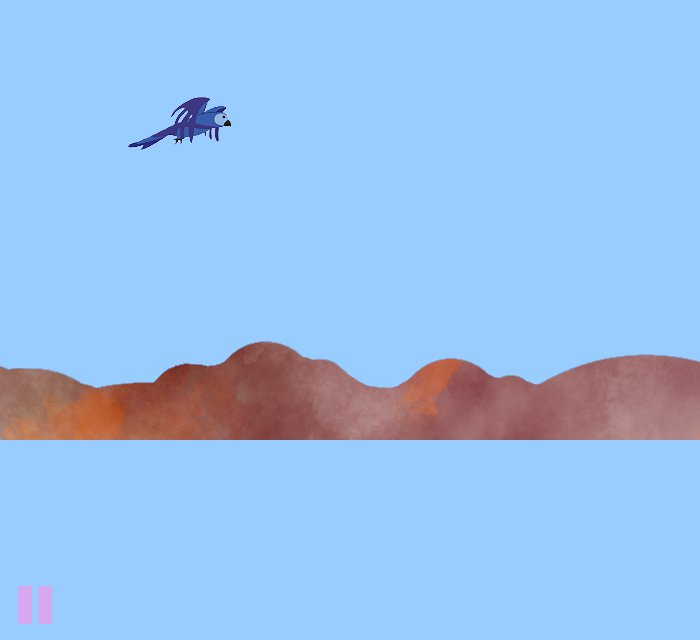
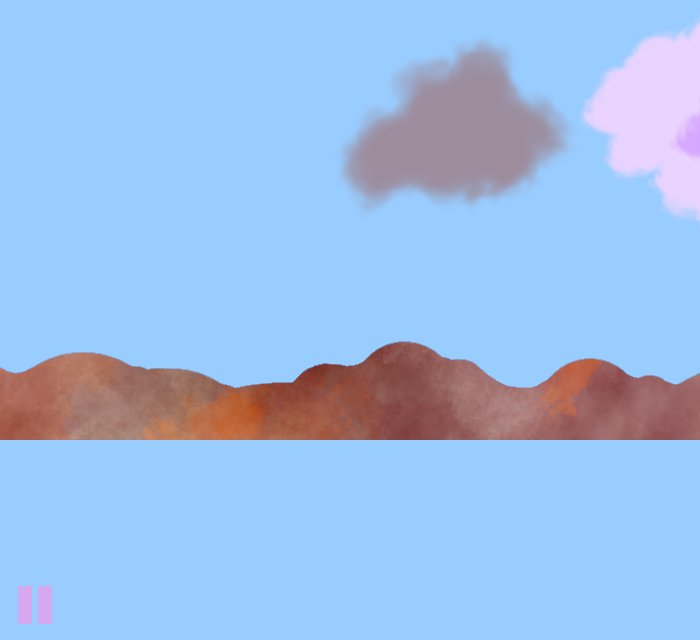
Add files via upload
21.13
все хорошо

Changed region(s): [[0.0, 0.5312, 1.0, 0.6875], [0.48, 0.0312, 1.0, 0.3438], [0.18, 0.125, 0.33, 0.25]]

diff --git a/888.py b/888.py
@@ -1,0 +1,285 @@
+import os
+import sys
+import pygame
+import random
+
+
+WIDTH = 700
+HEIGHT = 700
+
+
+def load_screen_im(name, colorkey=None):
+    fullname = os.path.join('data', name)
+    if not os.path.isfile(fullname):
+        print(f"Файл с изображением '{fullname}' не найден")
+        sys.exit()
+    image = pygame.image.load(fullname)
+    if colorkey is not None:
+        image = image.convert()
+        if colorkey == -1:
+            colorkey = image.get_at((0, 0))
+        image.set_colorkey(colorkey)
+    else:
+        image = image.convert_alpha()
+    return image
+
+
+def music_play(name):
+    fullname = os.path.join('data', name)
+    if not os.path.isfile(fullname):
+        print(f"Звуковой файл '{fullname}' не найден")
+        sys.exit()
+    pygame.mixer.music.load(fullname)
+    pygame.mixer.music.play(-1)
+
+
+class App:
+    def __init__(self):
+        pygame.init()
+        self.screen = pygame.display.set_mode((WIDTH, HEIGHT))
+        pygame.display.set_caption('DESERT Adventure')
+        self.all_sprites = pygame.sprite.Group()
+        self.dragon = AnimatedSprite(self, load_screen_im("birds5.png"), 8, 3, 700, 260)
+        self.fps = 200
+        self.clock = pygame.time.Clock()
+        self.length = 0
+        self.mus = music_play('music.mp3')
+
+    def terminate(self):
+        pygame.quit()
+        sys.exit()
+
+    def game(self):
+        dog_surf = load_screen_im('pause.png')
+        dog_rect = dog_surf.get_rect(bottomright=(60, 690))
+        picture = Picture()
+        weather = Weather()
+        pause = False
+        run = True
+        while run:
+            for event in pygame.event.get():
+                if event.type == pygame.QUIT:
+                    self.terminate()
+                if event.type == pygame.MOUSEBUTTONUP:
+                    x, y = event.pos
+                    if (x in range(10, 60)) and (y in range(640, 690)):
+                        print('Пауза')
+                        if not pause:
+                            pause = True
+                            dog_surf = load_screen_im('play.png', -1)
+                            rect = pygame.Rect(0, 60, 700, 640)
+                            sub = self.screen.subsurface(rect)
+                            pygame.image.save(sub, 'data/screenshot.jpg')
+                            pause_screen = load_screen_im('screenshot.jpg')
+                            pause_rect = pause_screen.get_rect(topleft=(0, 60))
+                            self.screen.blit(pause_screen, pause_rect)
+                            pygame.mixer.music.pause()
+
+                        else:
+                            pause = False
+                            dog_surf = load_screen_im('pause.png', -1)
+                            pygame.mixer.music.unpause()
+
+            self.screen.fill('#99CCFF')
+            self.all_sprites.draw(self.screen)
+
+            if not pause:
+                self.length += 0.06
+
+                self.all_sprites.update()
+
+                font = pygame.font.Font(None, 50)
+                string_rendered = font.render(str(int(self.length)) + 'м', True, pygame.Color('white'))
+                intro_rect = string_rendered.get_rect()
+                intro_rect.top = 10
+                intro_rect.x = 675 - 24 * len(str(int(self.length)))
+                self.screen.blit(string_rendered, intro_rect)
+            else:
+                font = pygame.font.Font(None, 120)
+
+                string_rendered = font.render(str(int(self.length)) + 'м', True, pygame.Color('white'))
+                intro_rect = string_rendered.get_rect()
+                intro_rect.top = 250
+                intro_rect.x = (700 - 60 * len(str(int(self.length)))) // 2
+                self.screen.blit(string_rendered, intro_rect)
+
+            self.screen.blit(picture.image, picture.rect)
+            self.screen.blit(picture.image2, picture.rect2)
+            self.screen.blit(weather.clouds_1, weather.rect)
+            self.screen.blit(weather.clouds_2, weather.rect2)
+            self.screen.blit(weather.clouds_3, weather.rect3)
+
+            if int(self.length) % 50 == 0:
+                self.dragon.new_bird()
+
+            picture.update(pause)
+            weather.update(pause)
+            self.screen.blit(dog_surf, dog_rect)
+            pygame.display.flip()
+            self.clock.tick(self.fps)
+
+    def start_game(self):
+        intro_text = ["ЗАСТАВКА", "",
+                      "Правила игры",
+                      "Начало игры",
+                      "Достижения"]
+
+        fon = pygame.transform.scale(load_screen_im('fon.jpg'), (WIDTH, HEIGHT))
+        self.screen.blit(fon, (0, 0))
+        font = pygame.font.Font(None, 30)
+
+        text_coord = 50
+        for line in intro_text:
+            string_rendered = font.render(line, True, pygame.Color('white'))
+            intro_rect = string_rendered.get_rect()
+            text_coord += 10
+            intro_rect.top = text_coord
+            intro_rect.x = 10
+            text_coord += intro_rect.height
+            self.screen.blit(string_rendered, intro_rect)
+
+        run = True
+        while run:
+            for event in pygame.event.get():
+                if event.type == pygame.QUIT:
+                    self.terminate()
+                if event.type == pygame.MOUSEBUTTONUP:
+                    x, y = event.pos
+                    if (x in range(10, 120)) and (y in range(60, 75)):
+                        print('Заставка')
+                    if (x in range(10, 147)) and (y in range(120, 135)):
+                        print('Правила')
+                    if (x in range(10, 150)) and (y in range(150, 165)):
+                        self.game()
+                    if (x in range(10, 180)) and (y in range(180, 195)):
+                        print('Достижения')
+
+            pygame.display.flip()
+            self.clock.tick(self.fps)
+
+    def finish_game(self):
+        pass
+
+
+class Picture:
+    def __init__(self):
+
+        self.image = pygame.image.load('data/test.png')
+        self.rect = self.image.get_rect()
+        self.rect.left = 0
+        self.rect.top = 400
+
+        self.image2 = pygame.image.load('data/test3.png')
+        self.rect2 = self.image2.get_rect()
+        self.rect2.left = 700
+        self.rect2.top = 400
+
+        self.first_im = True
+        self.second_im = False
+        self.pause = False
+
+    def update(self, pause):
+        if not pause:
+            if self.first_im:
+                self.rect = self.rect.move(-1, 0)
+            if self.second_im:
+                self.rect2 = self.rect2.move(-1, 0)
+
+            if self.rect.left == -300 and self.first_im:
+                self.second_im = True
+                self.rect2.left = 700
+                self.rect2.top = 400
+            if self.rect.left == -1000 and self.first_im:
+                self.first_im = False
+            if self.rect2.left == -300 and self.second_im:
+                self.rect.left = 700
+                self.rect.top = 400
+                self.first_im = True
+            if self.rect2.left == -1000 and self.second_im:
+                self.second_im = False
+
+
+class AnimatedSprite(pygame.sprite.Sprite):
+    def __init__(self, app, sheet, columns, rows, x, y):
+        super().__init__(app.all_sprites)
+        self.frames = []
+        self.cut_sheet(sheet, columns, rows)
+        self.cur_frame = 0
+        self.image = self.frames[self.cur_frame]
+        self.rect = self.rect.move(x, y)
+        self.counter = 0
+        self.counter_of_fly = 0
+
+    def cut_sheet(self, sheet, columns, rows):
+        self.rect = pygame.Rect(0, 0, sheet.get_width() // columns,
+                                sheet.get_height() // rows)
+        for j in range(rows):
+            for i in range(columns):
+                frame_location = (self.rect.w * i, self.rect.h * j)
+                self.frames.append(sheet.subsurface(pygame.Rect(
+                    frame_location, self.rect.size)))
+
+    def update(self):
+        self.counter += 1
+        self.counter_of_fly += 1
+        if self.counter == 8:
+            self.counter = 0
+            self.cur_frame = (self.cur_frame + 1) % len(self.frames)
+            self.image = self.frames[self.cur_frame]
+        if self.counter_of_fly % 2 == 0:
+            self.rect = self.rect.move(-3, 0)
+
+    def new_bird(self):
+        self.rect.top = 260
+        self.rect.left = 700
+
+
+class Music:
+    def __init__(self):
+        pass
+
+
+class Weather:
+    def __init__(self):
+        self.clouds_1 = load_screen_im('cloud.png')
+        self.clouds_2 = load_screen_im('cloud2.png')
+        self.clouds_3 = load_screen_im('cloud3.png')
+        self.rect = self.clouds_1.get_rect()
+        self.rect.left, self.rect.top = 400, 0
+        self.rect2 = self.clouds_1.get_rect()
+        self.rect2.left, self.rect2.top = 700, 0
+        self.rect3 = self.clouds_1.get_rect()
+        self.rect3.left, self.rect3.top = 300, 0
+        self.counter = 0
+        self.weather = 'wind'
+
+    def update(self, pause):
+        self.counter += 1
+        if not pause:
+            if self.counter % 5 == 0:
+                if self.weather == 'wind':
+                    self.rect = self.rect.move(-1, 0)
+                    if self.rect.left <= -300:
+                        self.rect.left = 700
+                    self.rect2 = self.rect2.move(-3, 0)
+                    if self.rect2.left <= -300:
+                        self.rect2.left = 700
+                    self.rect3 = self.rect3.move(-2, 0)
+                    if self.rect3.left <= -300:
+                        self.rect3.left = 700
+                elif self.weather == 'sun':
+                    pass
+
+    def change_weather(self, new_weather):
+        self.weather = new_weather
+
+
+
+class Camera:
+    def __init__(self):
+        pass
+
+
+if __name__ == '__main__':
+    app = App()
+    app.start_game()
